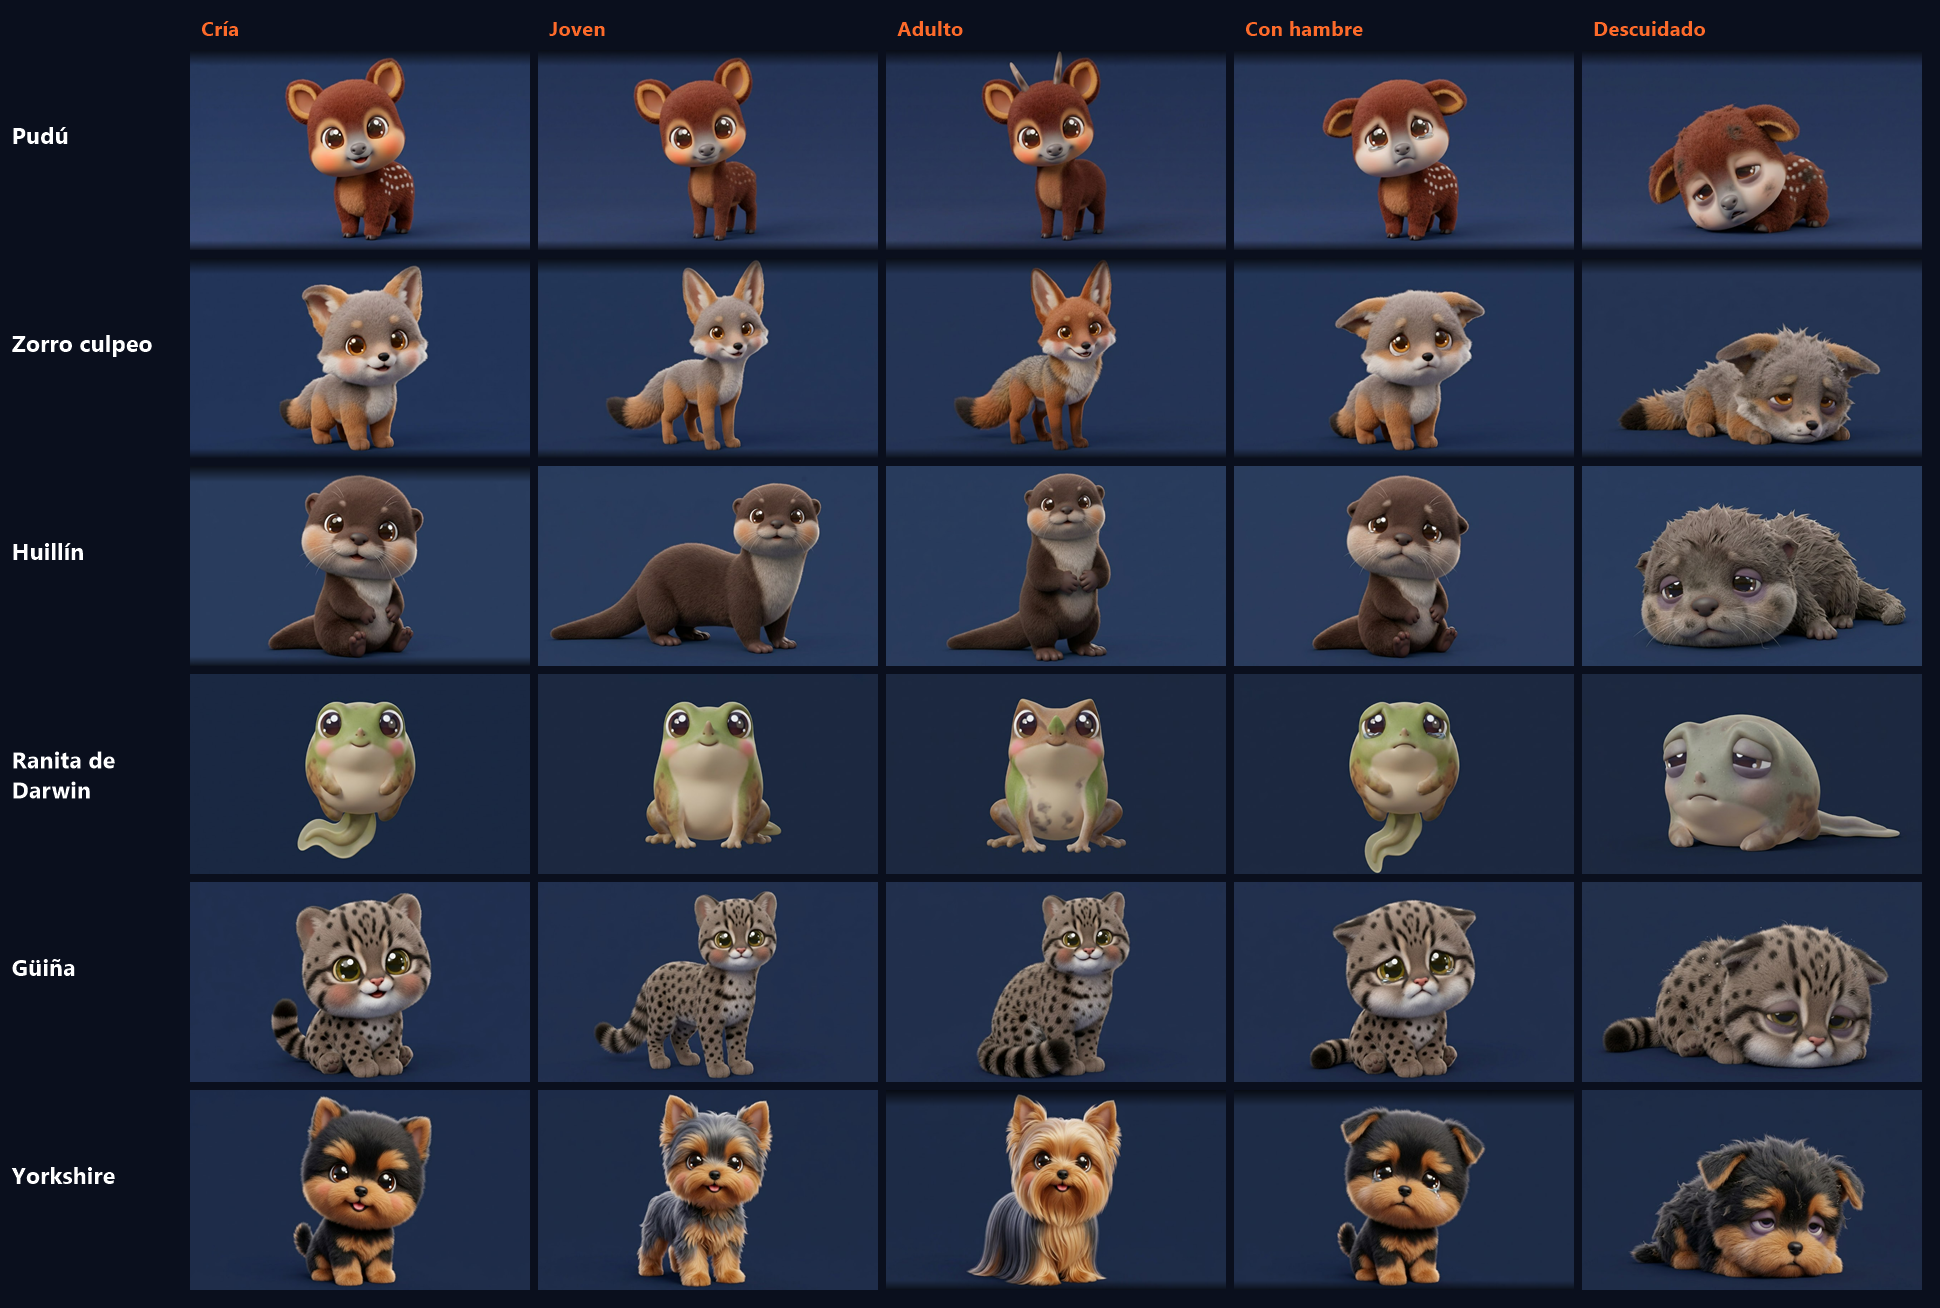
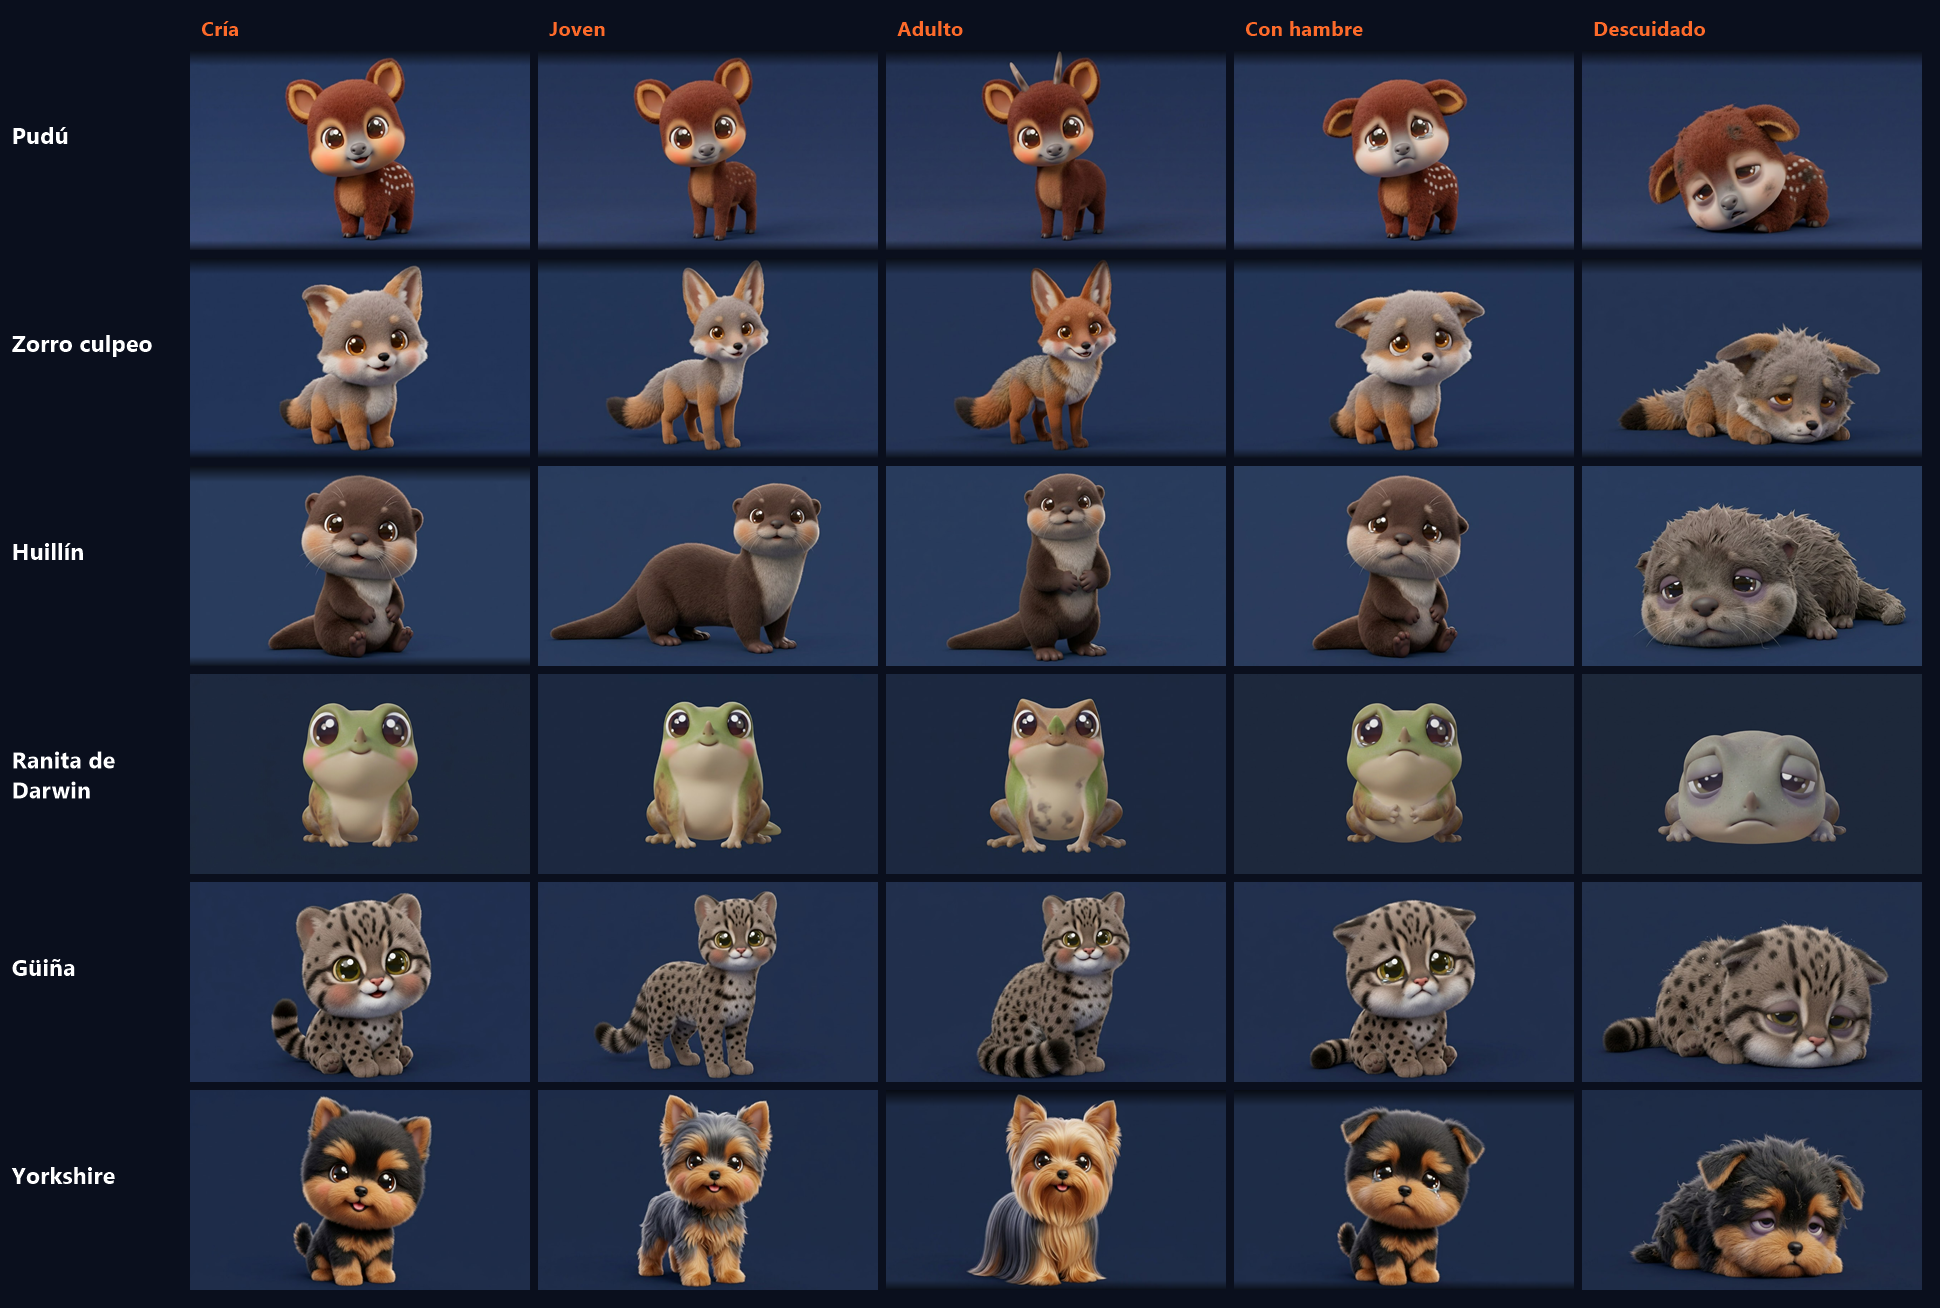
design(mascotas): ranita recién nacida con hambre y descuidada (ya no renacuajo) y lámina al día

Changed region(s): [[0.8351, 0.5505, 0.9897, 0.6728], [0.6804, 0.5199, 0.7732, 0.6728], [0.1546, 0.5199, 0.2165, 0.6728]]

diff --git a/disenos-ui/mascotas/DECISIONES.md b/disenos-ui/mascotas/DECISIONES.md
@@ -65,10 +65,10 @@ Datos reales: la cría nace con manchas blancas que pierde cerca de los 5 meses 
 - Galope del zorro: galope rotatorio con dos vuelos, como los perros y otros carnívoros corredores (Biancardi y Minetti, J. Exp. Biol. 2012).
 - El mockup elige animal con `ANIMALES` en `mockup-viaje.src.html`; `cargarAnimal` carga los cuadros aparte y los cambia de una vez (antes, cambiar de animal mientras cargaba dejaba la página en blanco).
 - **Huillín hecho** (2026-10-08, pendiente de revisión de Inty): 12 cuadros nuevos de Gemini en su chat (pedido: "Edit my original RUNNING baby huillin image… change only the pose: …"), originales en `gemini/huillin-cria-*.jpg`, transparentes en `transparentes/huillin-*.png`. Galope a saltos con el lomo arqueado (las patas delanteras son más cortas: otterjoy.com, locomoción de nutrias); "dos patas" = se para a vigilar; "tronco" = tobogán de guata (las nutrias se deslizan en barro y nieve como juego, Northeastern Naturalist 2005); come pancoras (*Aegla*, casi 100 % de su dieta según Oryx/Cambridge); chilla. Lleva `alto:64` porque corre bajo y largo.
-- **Ranita de Darwin: la cría ya no es renacuajo** (Inty, 2026-10-08: eligió "ranita recién nacida"). En *Rhinoderma darwinii* el renacuajo se desarrolla entero dentro del saco vocal del papá y sale por su boca ya convertido en ranita (AmphibiaWeb 4322; EDGE of Existence), así que un renacuajo suelto no existe. Nueva cría: `gemini/rana-cria-v2.jpg` (de frente) y `gemini/rana-cria-sentado.jpg` (perfil). Acciones reales: se camufla como hoja seca, se hace la muerta panza arriba (guata negra con manchas blancas), silba como pájaro (saco vocal inflado), atrapa una mosquita con la lengua y salta troncos. Los 13 cuadros de viaje están hechos (2026-10-08) y la cría nueva ya está en la maqueta de la entrega. Pendiente: rehacer hambre y descuidado de la cría (siguen siendo renacuajo) y la lámina.
+- **Ranita de Darwin: la cría ya no es renacuajo** (Inty, 2026-10-08: eligió "ranita recién nacida"). En *Rhinoderma darwinii* el renacuajo se desarrolla entero dentro del saco vocal del papá y sale por su boca ya convertido en ranita (AmphibiaWeb 4322; EDGE of Existence), así que un renacuajo suelto no existe. Nueva cría: `gemini/rana-cria-v2.jpg` (de frente) y `gemini/rana-cria-sentado.jpg` (perfil). Acciones reales: se camufla como hoja seca, se hace la muerta panza arriba (guata negra con manchas blancas), silba como pájaro (saco vocal inflado), atrapa una mosquita con la lengua y salta troncos. Los 13 cuadros de viaje están hechos (2026-10-08) y la cría nueva ya está en la maqueta de la entrega. Hambre y descuidado de la cría nueva hechos (2026-10-08, desde rana-cria-v2 en su chat de Gemini): `gemini/rana-cria-hambre.jpg` (patitas en la guata, lágrimas) y `gemini/rana-cria-descuidado.jpg` (echada, desteñida, ojeras: misma postura que los descuidados de los otros 5). Los de renacuajo quedan como `*-renacuajo.png`. Lámina regenerada con la cría nueva (`lamina.ps1` acepta .jpg). Ojo: el fondo de los originales de la ranita es un azul más oscuro que el de los otros animales.
 - **Güiña hecha** (2026-10-08, pendiente de revisión de Inty): 13 cuadros en `transparentes/guina-*.png` (originales `gemini/guina-cria-*.jpg`; "estirado" es la güiña corriendo original, de donde salen todas). Datos reales: el gato más chico de América, nocturno y trepador (cría en huecos de árboles muertos, centrodesarrollolocal.uc.cl), come sobre todo ratón colilargo (*Oligoryzomys longicaudatus*, Gayana/UdeC). Acciones: "dos patas" = **acecho** agazapado; frenazo = **se eriza** y bufa; comida = **colilargo** (dibujo propio: lomo café grisáceo, guata clara, cola más larga que el cuerpo), dibujado entero bajo sus patas, sin sangre: **revisar con Inty** si prefiere otra presa; duerme enroscada con la cola en la nariz. `alto:70` (más chica que el pudú). Arreglo común: si el cuadro de comer ya trae la comida (huillín, güiña: `comidaEnCuadro`), el dibujo suelto se esconde al llegar; antes se veían dos. Gemini: cuenta inty405 (`/u/0/`); si Chrome no está al frente la pestaña se congela y los cuadros viejos quedan como `blob:` (no se pueden bajar; rehacerlos al final del chat). La URL `rd-gg` hay que bajarla con curl en segundos; con `=s1376` en vez de `=s0` redirige mejor. Una de las imágenes traía la estrellita de Gemini abajo a la derecha: se tapó con el fondo antes de recortar.
 - **Yorkshire hecho** (2026-10-08, pendiente de revisión de Inty): 13 cuadros en `transparentes/yorkie-*.png` (originales `gemini/yorkie-cria-*`; "estirado" = el Yorkshire corriendo original). Datos reales: terrier nacido en las fábricas textiles de Yorkshire en el siglo XIX para cazar ratones en rincones estrechos, hoy perro de compañía, valiente y muy ladrador (AKC, historia de la raza); el cachorro es negro y fuego. Acciones: "dos patas" = **se para a pedir**; olfatea = **rastrea**; frenazo = **ladra**; comida = **galletita con forma de hueso** (dibujo propio; es perro de compañía, no se repite la presa de la güiña: **revisar con Inty**). `alto:72`. Al Yorkshire "salta" Gemini le dibujó un palito debajo y a "mira" la estrellita: se taparon con el fondo antes de recortar. Ojo: con fondo claro el pelo negro deja un borde fino oscuro; en la escena (camino oscuro) no se nota.
-- Pendiente de los 6 animales: revisión de Inty de todo; ranita (hambre y descuidado de la cría nueva) y la lámina.
+- Pendiente de los 6 animales: revisión de Inty de todo (lámina al día: `gemini/lamina-mascotas.png`).
 - Descarga de Gemini sin el botón: en la pestaña del chat, `location.href` = URL `/gg/…=s0` de la imagen, leer la URL `rd-gg` a la que redirige y bajarla con curl en seguida (vence en minutos).
 
 ## Pieza 3 de 3: entrega de la mascota (2026-10-07)
